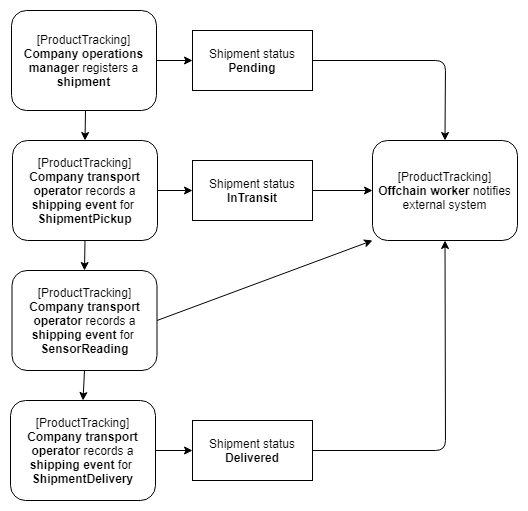
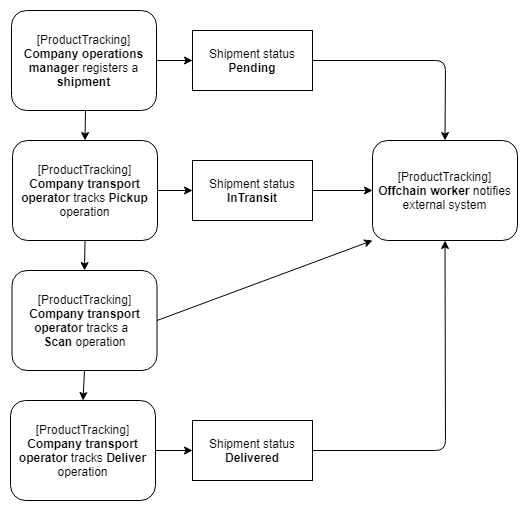
Update readme & shipment flow diagram following latest refactoring (#22)

Changed region(s): [[0.0303, 0.5577, 0.2727, 0.7045], [0.0303, 0.2935, 0.2727, 0.4403], [0.0303, 0.8219, 0.2727, 0.9687]]

diff --git a/README.md b/README.md
@@ -23,15 +23,14 @@ To register a shipment, one must send a transaction with a `productTracking.regi
 - `owner` as the Substrate Account representing the person (or function within an organization) responsible for the shipping process of the given shipment.
 - `products` which is a series of product IDs associated with the given shipment.
 
-### Record a shipping event
+### Tracking a shipment
 
-When a shipment has been registered, the related shipping events can be recorded on-chain by sending a `productTracking.recordEvent` extrinsic with an `event` argument, a data structure containing information about a shipping event for a given shipment:
-- `id` the event ID, an arbitrary numeric or alpha-numeric code that uniquely identifies the event (e.g. GUID).
-- `event_type` as the type of shipping event to be recorded: `ShipmentPickup`, `ShipmentDelivery` or `SensorReading`.
-- `shipment_id` is the Shipment ID which identifies which shipment the given event is related to.
-- `location` is an optional `ReadPoint` which contains the geographic position (`latitude` and `longitude`) where the event was captured.
-- `readings` which is a series of `Reading` that represent data captured by various sensors (humidity, Temperature, vibration, etc). A `Reading` includes a `device_id` (unique idenfitier of the device), a `reading_type` (type of sensor / measurement, see `ReadingType` enum), a `timestamp` (time at which the reading was recorded), and a `value` as the actual measurement recorded by the sensor.
+When a shipment has been registered, shippting events occuring during the shipment's lifecycle can be recorded on-chain by sending a `productTracking.trackShipment` extrinsic with the following argmuments:
+- `id` is the Shipment ID which identifies which shipment is being tracked.
+- `operation` as the business operation that took place during the shipping process: `Pickup`, `Scan` or `Deliver`.
 - `timestamp` as time (represented as UNIX time) at which the event was captured by an external system or sensor.
+- `location` is an optional `ReadPoint` which contains the geographic position (`latitude` and `longitude`) where the event was captured.
+- `readings` which is an optional series of `Reading` that represent data captured by various sensors (humidity, Temperature, vibration, etc). A `Reading` includes a `device_id` (unique idenfitier of the device), a `reading_type` (type of sensor / measurement, see `ReadingType` enum), a `timestamp` (time at which the reading was recorded), and a `value` as the actual measurement recorded by the sensor.
 
 ## Dependencies
 
@@ -41,7 +40,7 @@ This pallet does not depend on any externally defined traits.
 
 ### Pallets
 
-This pallet depends on on the [FRAME Timestamp pallet](https://docs.rs/crate/pallet-timestamp).
+This pallet depends on on the [FRAME Timestamp](https://docs.rs/crate/pallet-timestamp) & [Product registry](https://github.com/stiiifff/pallet-product-registry) pallets.
 
 ## Testing
 
@@ -88,7 +87,7 @@ impl product_tracking::Trait for Runtime {
 and include it in your `construct_runtime!` macro:
 
 ```rust
-ProductTracking: product_tracking::{Module, Call, Storage, Event<T>, ValidateUnsigned},
+ProductTracking: product_tracking::{Module, Call, Storage, Event<T>},
 ```
 
 ### Genesis Configuration
